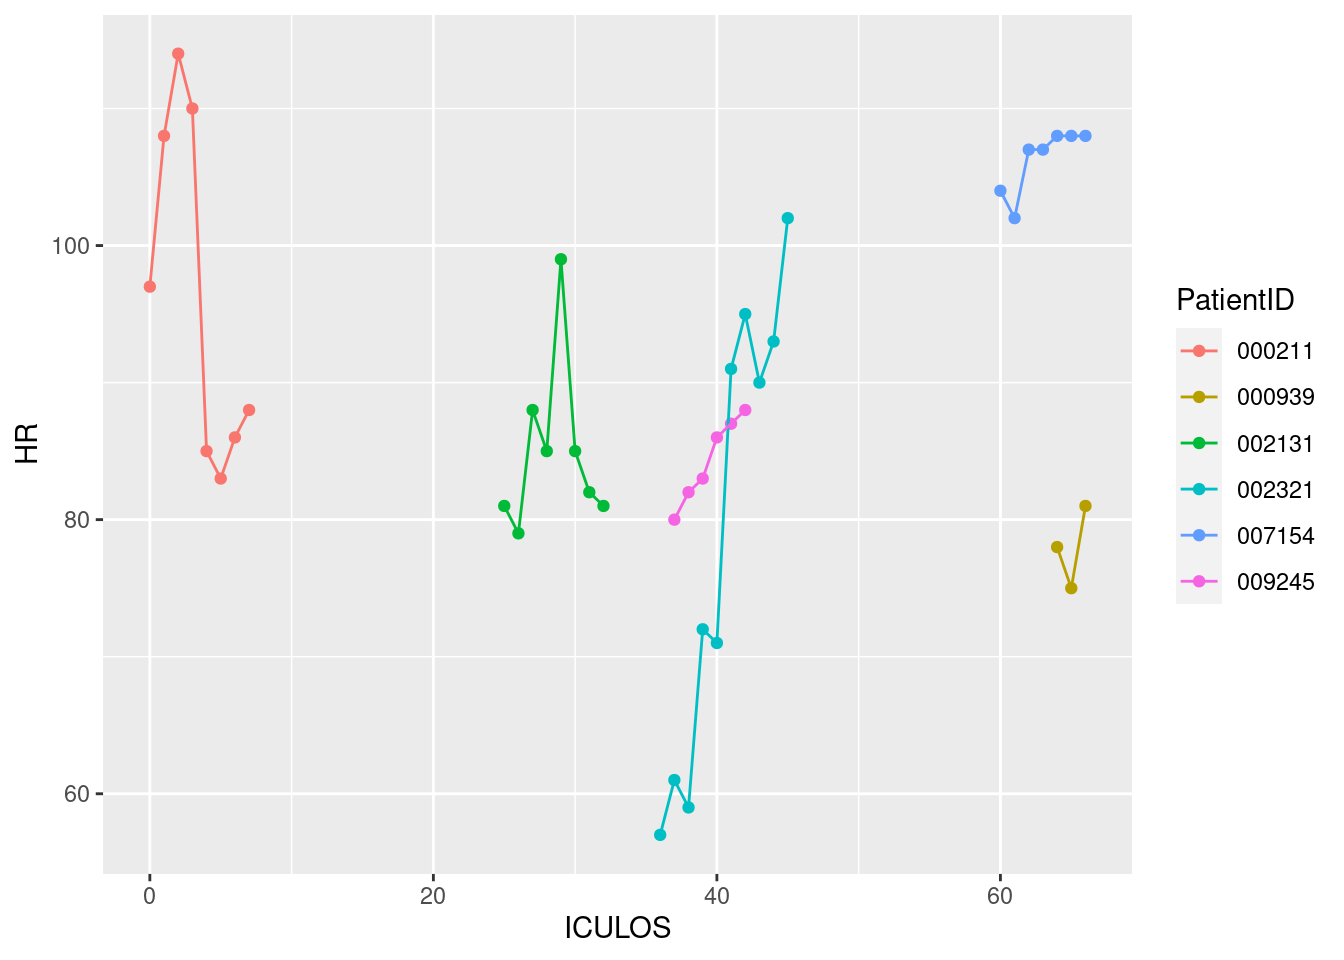
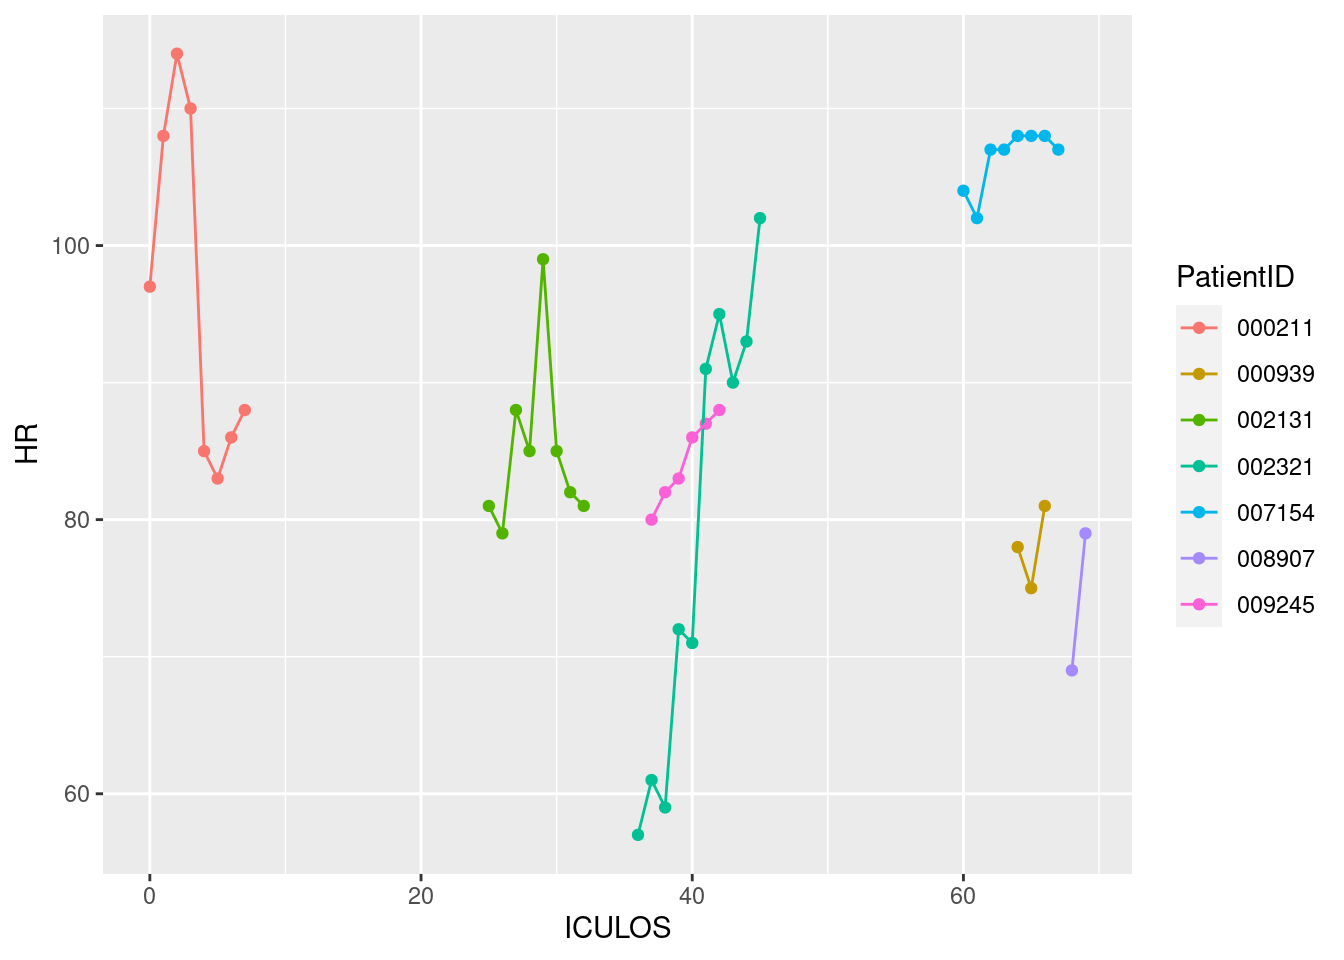
Updated report

diff --git a/a7qmd.html b/a7qmd.html
@@ -80,7 +80,7 @@ ul.task-list li input[type="checkbox"] {
 <h2 class="anchored" data-anchor-id="current-date-and-time">Current date and time</h2>
 <div class="cell">
 <div class="cell-output cell-output-stdout">
-<pre><code>[1] "2023-04-12 10:17:16 UTC"</code></pre>
+<pre><code>[1] "2023-04-12 11:13:40 UTC"</code></pre>
 </div>
 </div>
 </section>
@@ -124,11 +124,17 @@ ul.task-list li input[type="checkbox"] {
 </tr>
 <tr class="odd">
 <td style="text-align: left;">007154</td>
-<td style="text-align: right;">108</td>
+<td style="text-align: right;">107</td>
 <td style="text-align: right;">NA</td>
-<td style="text-align: right;">22</td>
+<td style="text-align: right;">21</td>
 </tr>
 <tr class="even">
+<td style="text-align: left;">008907</td>
+<td style="text-align: right;">79</td>
+<td style="text-align: right;">NA</td>
+<td style="text-align: right;">17</td>
+</tr>
+<tr class="odd">
 <td style="text-align: left;">009245</td>
 <td style="text-align: right;">88</td>
 <td style="text-align: right;">NA</td>
@@ -379,9 +385,9 @@ ul.task-list li input[type="checkbox"] {
 </tr>
 <tr class="even">
 <td style="text-align: left;">007154</td>
-<td style="text-align: right;">0</td>
+<td style="text-align: right;">-1</td>
 <td style="text-align: right;">NA</td>
-<td style="text-align: right;">1</td>
+<td style="text-align: right;">-1</td>
 </tr>
 <tr class="odd">
 <td style="text-align: left;">007365</td>
@@ -421,9 +427,9 @@ ul.task-list li input[type="checkbox"] {
 </tr>
 <tr class="odd">
 <td style="text-align: left;">008907</td>
-<td style="text-align: right;">11</td>
+<td style="text-align: right;">10</td>
 <td style="text-align: right;">NA</td>
-<td style="text-align: right;">0</td>
+<td style="text-align: right;">-1</td>
 </tr>
 <tr class="even">
 <td style="text-align: left;">008916</td>
